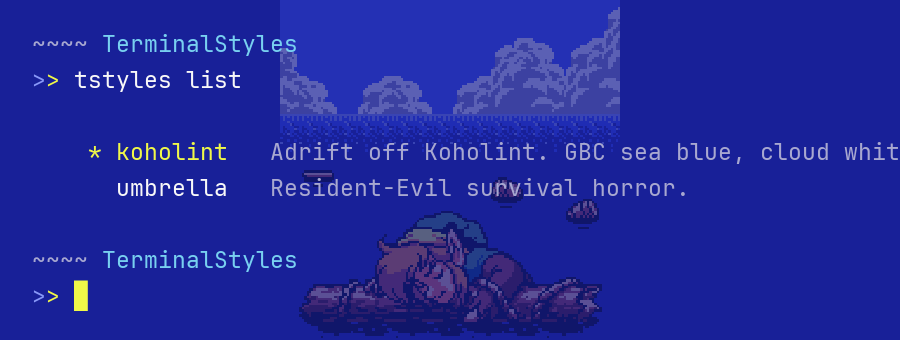
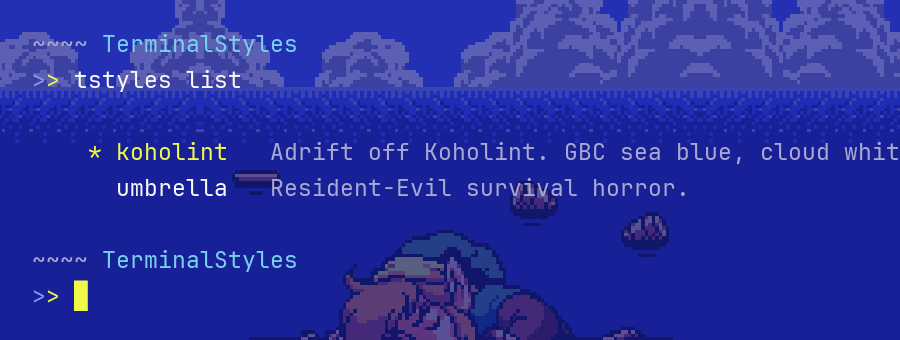
Widen koholint's background so it fills the window (#88)
A square picture cannot fill a wide terminal without being cropped,
stretched, or ringed with margins. Those are the only three outcomes, and
picking the least bad one is what 'none' was. So widen the picture instead
of compromising the fit: sky, cloud band, horizon dither and open water
mirror outward 200px each side, where they continue seamlessly.

Link and his raft do NOT mirror. Any margin pixel belonging to them is
replaced with open water, because the first attempt grew a second Link at
both edges -- his hat and hair on the left, his tunic and hand on the
right. That is the duplication tombraider had to be fixed for, and it is
why the naive mirror was not good enough.

900x500 is aspect 1.80 against a typical window's 1.67, so the style asks
for uniformToFill again: 1.24x and an 82px crop, against 2.08x and 638px
at the square source.

Verified the 0.8.42 cache refresh end to end on the way: the locally
cached 149220-byte square version was replaced with the 340339-byte wide
one on the next resolve. The first check looked like a no-op because
raw.githubusercontent serves max-age=300 and the CDN was still holding the
old object seconds after the push -- the code compared honest, stale data
and correctly concluded nothing had changed.

diff --git a/CHANGELOG.md b/CHANGELOG.md
@@ -7,6 +7,14 @@ and this project adheres to [Semantic Versioning](https://semver.org/spec/v2.0.0
 
 ## [Unreleased]
 
+### Changed
+
+- **koholint's background is 900x500 rather than 500x500, and covers again.** A square picture cannot fill a wide terminal without being cropped, stretched, or ringed with margins -- those are the only three outcomes, which is why it shipped at native size with the sea colour either side. So the picture is wider now instead of the fit being compromised: the sky, cloud band, horizon dither and open water are mirrored outward 200px each side, where they continue seamlessly.
+
+  Link and his raft are **not** mirrored. Any pixel in the margin belonging to them is replaced with open water, because the first attempt grew a second Link at both edges -- his hat and hair on the left, his tunic and hand on the right. That is the duplication `tombraider` had to be fixed for.
+
+  Covering an ordinary 1038x622 window now costs 1.24x and an 82px crop, against 2.08x and 638px at the square source. 332 KB across 20 frames, up from 146 KB.
+
 ## [0.8.42] - 2026-09-21
 
 ### Added
